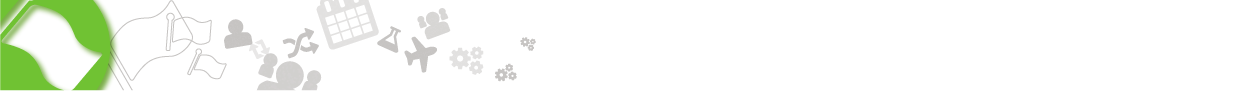
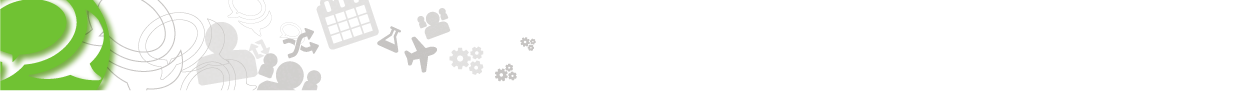
updated background images

Changed region(s): [[0.0, 0.0, 0.2174, 1.0], [0.1242, 0.044, 0.1553, 0.0879], [0.1242, 0.0, 0.1553, 0.022]]

diff --git a/caloomhtml/UI/docs/oip-additions/oip-assets/oip-css/oip-bootstrap.css b/caloomhtml/UI/docs/oip-additions/oip-assets/oip-css/oip-bootstrap.css
@@ -5304,11 +5304,14 @@ p a.noteditable:hover {
   padding: 0px;
   margin-bottom: 20px;
   height: 90px;
+  -webkit-border-radius: 6px;
+  -moz-border-radius: 6px;
+  border-radius: 6px;
 }
 .hero-unit {
   background-repeat: no-repeat;
   width: auto;
-  padding-top: 22px;
+  padding-top: 0px;
   padding-bottom: 0px;
   margin-bottom: 20px;
   background-color: transparent;

diff --git a/caloomhtml/UI/docs/oip-additions/oip-assets/less/oip-aalto-id.less b/caloomhtml/UI/docs/oip-additions/oip-assets/less/oip-aalto-id.less
@@ -289,15 +289,18 @@ p a.noteditable:hover{
   padding:0px;
   margin-bottom: 20px;
   height: 90px;
+  .border-radius(6px);
+
 }
 
 .hero-unit {
   background-repeat: no-repeat ;
   width: auto;
-  padding-top: 22px;
+  padding-top: 0px;
   padding-bottom: 0px;
   margin-bottom: 20px;
   background-color: transparent;
+
 }
 
 .news-header {
